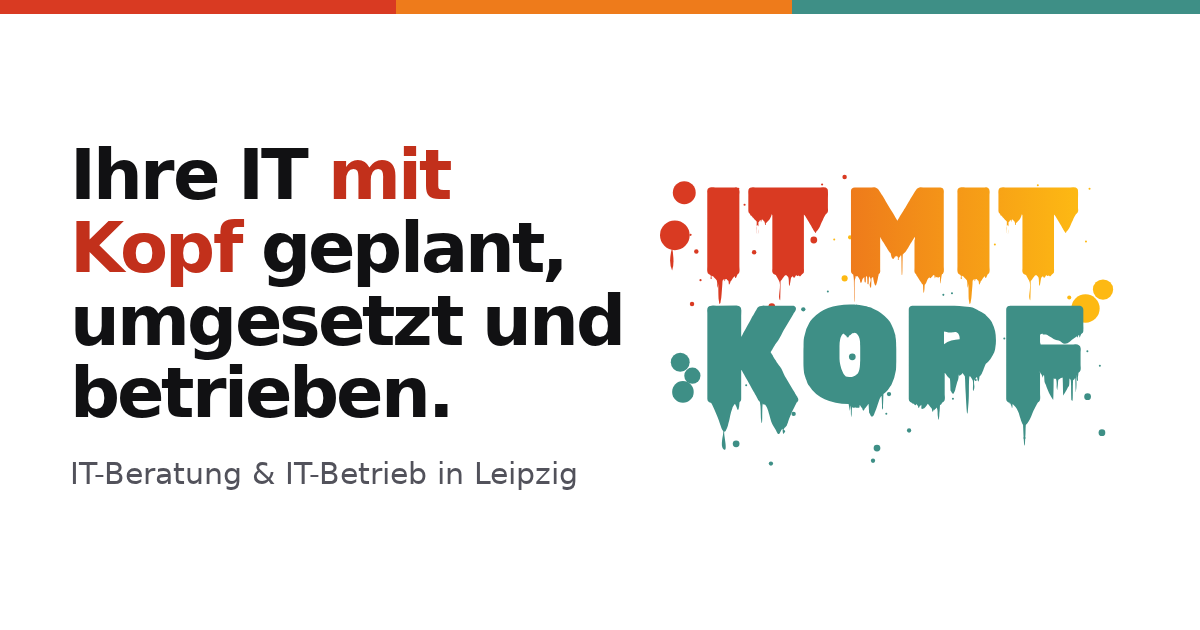
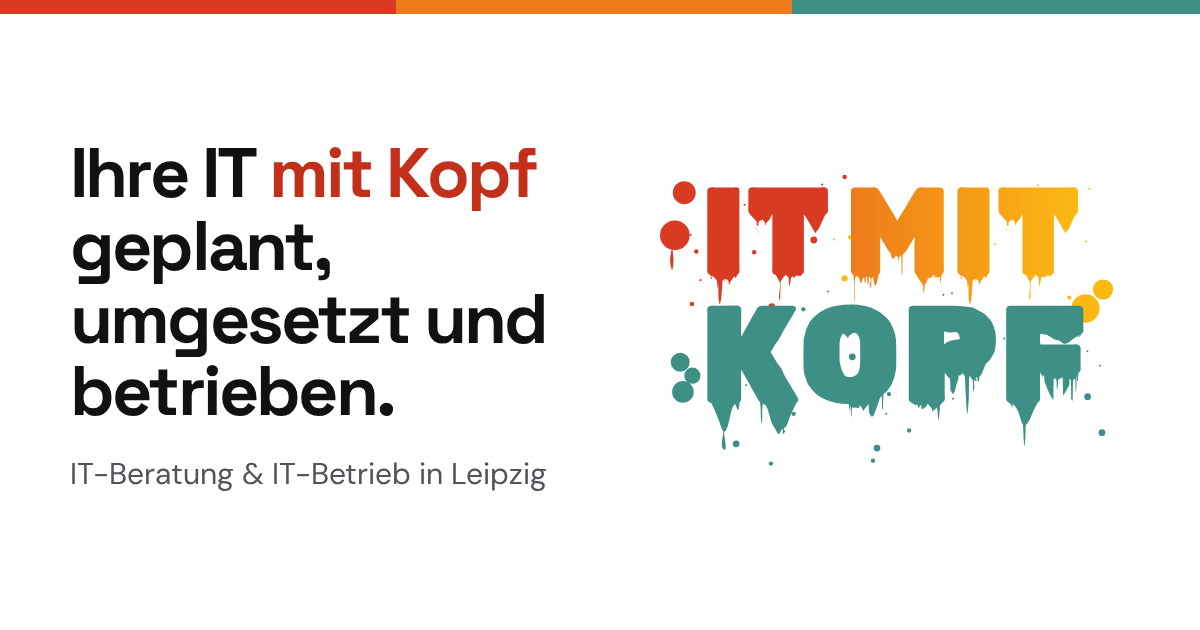
feat: LinkedIn footer link, a11y/HTML fixes, deploy drafts
- footer: LinkedIn link (+ sameAs in JSON-LD)
- html-validate clean: DOCTYPE case, non-breaking phone numbers, heading levels on /leistungen/
- og-image: fix font loading, keep 'mit Kopf' together
- deploy/: nginx default.conf (access_log off, 404, 301 for /Impressum.html + /Datenschutz.html) and compose draft with git-sync (60 min); not applied

Changed region(s): [[0.0617, 0.2111, 0.5242, 0.6635], [0.0617, 0.7238, 0.4933, 0.7841]]

diff --git a/public/index.html b/public/index.html
@@ -1,4 +1,4 @@
-<!doctype html>
+<!DOCTYPE html>
 <html lang="de">
 <head>
 <meta charset="utf-8">
@@ -26,7 +26,7 @@
 <link rel="preload" href="/assets/fonts/dm-sans.woff2" as="font" type="font/woff2" crossorigin>
 <link rel="stylesheet" href="/assets/css/style.css">
 <script src="/assets/js/theme.js"></script>
-<script type="application/ld+json">{"@context":"https://schema.org","@graph":[{"@type":"ProfessionalService","@id":"https://itmitkopf.de/#business","name":"IT mit Kopf","url":"https://itmitkopf.de/","description":"IT-Beratung, IT-Unterstützung im Tagesgeschäft sowie Umrüstung und Neuaufbau von IT-Infrastrukturen für kleine Firmen und Selbstständige in Leipzig.","slogan":"Ihre IT mit Kopf geplant, umgesetzt und betrieben.","logo":"https://itmitkopf.de/assets/img/logo-color.svg","image":"https://itmitkopf.de/assets/img/og-image.png","telephone":"+49 151 70119866","email":"info@itmitkopf.de","vatID":"DE365808911","inLanguage":"de","address":{"@type":"PostalAddress","streetAddress":"Salzmannstr. 15","postalCode":"04129","addressLocality":"Leipzig","addressCountry":"DE"},"areaServed":{"@type":"City","name":"Leipzig"},"founder":{"@type":"Person","name":"Benjamin Schützer","jobTitle":"IT-Berater"},"knowsAbout":["Virtualisierung","Proxmox VE","Proxmox Backup Server","NAS-Systeme","UniFi","TP-Link Omada","UniFi Protect","UniFi Access","Linux","Windows","Netzwerke","Überwachungstechnik","Smart Office","Smart Home","Home Assistant","KI-Agenten"],"makesOffer":[{"@type":"Offer","itemOffered":{"@type":"Service","name":"IT-Unterstützung im Tagesgeschäft","description":"Hilfe bei Störungen, Fragen und laufenden Aufgaben im Büroalltag, vor Ort in Leipzig oder remote auf Anfrage."}},{"@type":"Offer","itemOffered":{"@type":"Service","name":"IT-Beratung","description":"Eine fundierte Einschätzung Ihrer IT-Landschaft und ein klarer Plan, der zu Ihrem Betrieb passt."}},{"@type":"Offer","itemOffered":{"@type":"Service","name":"Umrüstung bestehender IT","description":"Vorhandene Infrastruktur wird Schritt für Schritt modernisiert, damit der laufende Betrieb möglichst wenig gestört wird."}},{"@type":"Offer","itemOffered":{"@type":"Service","name":"Neuaufbau von IT-Infrastruktur","description":"Server, Virtualisierung, Speicher, Netzwerk und Überwachung: von der Planung bis zum Betrieb aus einer Hand."}}]},{"@type":"WebSite","@id":"https://itmitkopf.de/#website","url":"https://itmitkopf.de/","name":"IT mit Kopf","inLanguage":"de","publisher":{"@id":"https://itmitkopf.de/#business"}}]}</script>
+<script type="application/ld+json">{"@context":"https://schema.org","@graph":[{"@type":"ProfessionalService","@id":"https://itmitkopf.de/#business","name":"IT mit Kopf","url":"https://itmitkopf.de/","description":"IT-Beratung, IT-Unterstützung im Tagesgeschäft sowie Umrüstung und Neuaufbau von IT-Infrastrukturen für kleine Firmen und Selbstständige in Leipzig.","slogan":"Ihre IT mit Kopf geplant, umgesetzt und betrieben.","logo":"https://itmitkopf.de/assets/img/logo-color.svg","image":"https://itmitkopf.de/assets/img/og-image.png","telephone":"+49 151 70119866","email":"info@itmitkopf.de","vatID":"DE365808911","inLanguage":"de","sameAs":["https://www.linkedin.com/company/itmitkopf/"],"address":{"@type":"PostalAddress","streetAddress":"Salzmannstr. 15","postalCode":"04129","addressLocality":"Leipzig","addressCountry":"DE"},"areaServed":{"@type":"City","name":"Leipzig"},"founder":{"@type":"Person","name":"Benjamin Schützer","jobTitle":"IT-Berater"},"knowsAbout":["Virtualisierung","Proxmox VE","Proxmox Backup Server","NAS-Systeme","UniFi","TP-Link Omada","UniFi Protect","UniFi Access","Linux","Windows","Netzwerke","Überwachungstechnik","Smart Office","Smart Home","Home Assistant","KI-Agenten"],"makesOffer":[{"@type":"Offer","itemOffered":{"@type":"Service","name":"IT-Unterstützung im Tagesgeschäft","description":"Hilfe bei Störungen, Fragen und laufenden Aufgaben im Büroalltag, vor Ort in Leipzig oder remote auf Anfrage."}},{"@type":"Offer","itemOffered":{"@type":"Service","name":"IT-Beratung","description":"Eine fundierte Einschätzung Ihrer IT-Landschaft und ein klarer Plan, der zu Ihrem Betrieb passt."}},{"@type":"Offer","itemOffered":{"@type":"Service","name":"Umrüstung bestehender IT","description":"Vorhandene Infrastruktur wird Schritt für Schritt modernisiert, damit der laufende Betrieb möglichst wenig gestört wird."}},{"@type":"Offer","itemOffered":{"@type":"Service","name":"Neuaufbau von IT-Infrastruktur","description":"Server, Virtualisierung, Speicher, Netzwerk und Überwachung: von der Planung bis zum Betrieb aus einer Hand."}}]},{"@type":"WebSite","@id":"https://itmitkopf.de/#website","url":"https://itmitkopf.de/","name":"IT mit Kopf","inLanguage":"de","publisher":{"@id":"https://itmitkopf.de/#business"}}]}</script>
 </head>
 <body>
 <a class="skip" href="#main">Zum Inhalt springen</a><header class="site-header"><div class="wrap"><a class="brand" href="/" aria-label="IT mit Kopf – Startseite"><img src="/assets/img/favicon.svg" width="31" height="34" alt="">IT mit Kopf</a><nav class="nav" aria-label="Hauptnavigation"><a href="/" aria-current="page">Start</a><a href="/leistungen/">Leistungen</a><a href="/ueber-mich/">Über mich</a><a href="/kontakt/">Kontakt</a></nav><button class="tg" id="theme-toggle" type="button" aria-pressed="false" aria-label="Zwischen hellem und dunklem Design wechseln" hidden><svg class="moon" width="20" height="20" viewBox="0 0 24 24" fill="none" stroke="currentColor" stroke-width="2" stroke-linecap="round" stroke-linejoin="round" aria-hidden="true"><path d="M21 12.8A9 9 0 1111.2 3a7 7 0 009.8 9.8z"/></svg><svg class="sun" width="20" height="20" viewBox="0 0 24 24" fill="none" stroke="currentColor" stroke-width="2" stroke-linecap="round" aria-hidden="true"><circle cx="12" cy="12" r="4"/><path d="M12 2v2M12 20v2M4.9 4.9l1.4 1.4M17.7 17.7l1.4 1.4M2 12h2M20 12h2M4.9 19.1l1.4-1.4M17.7 6.3l1.4-1.4"/></svg></button></div></header>
@@ -51,8 +51,8 @@
 <p><a href="/ueber-mich/"><strong>Mehr über mich →</strong></a></p></div><div class="facts"><div class="fact"><strong>20+</strong><span>Jahre Erfahrung in der IT</span></div><div class="fact"><strong>11+</strong><span>Jahre professionelle IT-Beratung</span></div><div class="fact"><strong>Leipzig</strong><span>vor Ort, remote auf Anfrage</span></div></div></div></section>
 <!-- Referenzen: vorbereitet, wird erst mit echten Inhalten sichtbar (hidden entfernen). Keine Inhalte erfinden. -->
 <section id="referenzen" hidden><div class="wrap"><h2>Referenzen</h2><p class="lead">Hier erscheinen künftig ausgewählte Projekte und Kundenstimmen.</p></div></section>
-<section class="band"><div class="wrap"><h2>Sprechen wir über Ihre IT.</h2><p>Schreiben Sie mir oder rufen Sie an. Ich melde mich mit einer ersten Einschätzung zu Ihrem Anliegen.</p><div class="cta"><a class="btn btn-p" href="mailto:info@itmitkopf.de">E-Mail schreiben</a><a class="btn btn-s" href="tel:+4915170119866">+49 151 70119866</a></div></div></section>
+<section class="band"><div class="wrap"><h2>Sprechen wir über Ihre IT.</h2><p>Schreiben Sie mir oder rufen Sie an. Ich melde mich mit einer ersten Einschätzung zu Ihrem Anliegen.</p><div class="cta"><a class="btn btn-p" href="mailto:info@itmitkopf.de">E-Mail schreiben</a><a class="btn btn-s" href="tel:+4915170119866">+49&nbsp;151&nbsp;70119866</a></div></div></section>
 </main>
-<footer class="site-footer"><div class="wrap"><div><strong>IT mit Kopf</strong><br>Benjamin Schützer<br>Salzmannstr. 15, 04129 Leipzig<br><a href="mailto:info@itmitkopf.de">info@itmitkopf.de</a><br><a href="tel:+4915170119866">+49 151 70119866</a></div><div><ul><li><a href="/impressum/">Impressum</a></li><li><a href="/datenschutz/">Datenschutz</a></li></ul></div><div>© 2026 IT mit Kopf<br>Leipzig · remote auf Anfrage</div></div></footer>
+<footer class="site-footer"><div class="wrap"><div><strong>IT mit Kopf</strong><br>Benjamin Schützer<br>Salzmannstr. 15, 04129 Leipzig<br><a href="mailto:info@itmitkopf.de">info@itmitkopf.de</a><br><a href="tel:+4915170119866">+49&nbsp;151&nbsp;70119866</a></div><div><ul><li><a href="/impressum/">Impressum</a></li><li><a href="/datenschutz/">Datenschutz</a></li><li><a href="https://www.linkedin.com/company/itmitkopf/" rel="noopener" target="_blank">LinkedIn<span class="sr"> (öffnet in neuem Tab)</span></a></li></ul></div><div>© 2026 IT mit Kopf<br>Leipzig · remote auf Anfrage</div></div></footer>
 </body>
 </html>

diff --git a/public/leistungen/index.html b/public/leistungen/index.html
@@ -1,4 +1,4 @@
-<!doctype html>
+<!DOCTYPE html>
 <html lang="de">
 <head>
 <meta charset="utf-8">
@@ -33,13 +33,13 @@
 <main id="main">
 <section class="page-head"><div class="wrap"><p class="eyebrow">Leistungen</p><h1>Was ich für Sie tue</h1>
 <p class="lead">Vier Schwerpunkte, die ineinandergreifen: vom Alltagssupport bis zur neuen Infrastruktur.</p></div></section>
-<section style="padding-top:1rem"><div class="wrap"><div class="list"><article class="item" id="support"><h3>IT-Unterstützung im Tagesgeschäft</h3><div><p>Hilfe bei Störungen, Fragen und laufenden Aufgaben im Büroalltag, vor Ort in Leipzig oder remote auf Anfrage.</p><ul class="bul"><li>Analyse und Behebung von Störungen</li><li>Einrichtung und Pflege von Arbeitsplätzen, Druckern und Scannern</li><li>Ansprechpartner für Fragen aus dem Alltag</li></ul></div></article><article class="item" id="beratung"><h3>IT-Beratung</h3><div><p>Eine fundierte Einschätzung Ihrer IT-Landschaft und ein klarer Plan, der zu Ihrem Betrieb passt.</p><ul class="bul"><li>Bestandsaufnahme der vorhandenen IT</li><li>Bewertung und Empfehlung mit Blick auf Betrieb und Budget</li><li>Planung von Änderungen und Neuanschaffungen</li></ul></div></article><article class="item" id="umruestung"><h3>Umrüstung bestehender IT</h3><div><p>Vorhandene Infrastruktur wird Schritt für Schritt modernisiert, damit der laufende Betrieb möglichst wenig gestört wird.</p><ul class="bul"><li>Migration auf neue Systeme und Plattformen</li><li>Modernisierung von Server, Speicher und Netzwerk</li><li>Schrittweise Umstellung mit abgestimmtem Ablauf</li></ul></div></article><article class="item" id="neuaufbau"><h3>Neuaufbau von IT-Infrastruktur</h3><div><p>Server, Virtualisierung, Speicher, Netzwerk und Überwachung: von der Planung bis zum Betrieb aus einer Hand.</p><ul class="bul"><li>Server und Virtualisierung</li><li>Netzwerk, WLAN und Überwachungstechnik</li><li>Datensicherung und Speicher</li></ul></div></article></div></div></section>
+<section style="padding-top:1rem"><div class="wrap"><div class="list"><article class="item" id="support"><h2>IT-Unterstützung im Tagesgeschäft</h2><div><p>Hilfe bei Störungen, Fragen und laufenden Aufgaben im Büroalltag, vor Ort in Leipzig oder remote auf Anfrage.</p><ul class="bul"><li>Analyse und Behebung von Störungen</li><li>Einrichtung und Pflege von Arbeitsplätzen, Druckern und Scannern</li><li>Ansprechpartner für Fragen aus dem Alltag</li></ul></div></article><article class="item" id="beratung"><h2>IT-Beratung</h2><div><p>Eine fundierte Einschätzung Ihrer IT-Landschaft und ein klarer Plan, der zu Ihrem Betrieb passt.</p><ul class="bul"><li>Bestandsaufnahme der vorhandenen IT</li><li>Bewertung und Empfehlung mit Blick auf Betrieb und Budget</li><li>Planung von Änderungen und Neuanschaffungen</li></ul></div></article><article class="item" id="umruestung"><h2>Umrüstung bestehender IT</h2><div><p>Vorhandene Infrastruktur wird Schritt für Schritt modernisiert, damit der laufende Betrieb möglichst wenig gestört wird.</p><ul class="bul"><li>Migration auf neue Systeme und Plattformen</li><li>Modernisierung von Server, Speicher und Netzwerk</li><li>Schrittweise Umstellung mit abgestimmtem Ablauf</li></ul></div></article><article class="item" id="neuaufbau"><h2>Neuaufbau von IT-Infrastruktur</h2><div><p>Server, Virtualisierung, Speicher, Netzwerk und Überwachung: von der Planung bis zum Betrieb aus einer Hand.</p><ul class="bul"><li>Server und Virtualisierung</li><li>Netzwerk, WLAN und Überwachungstechnik</li><li>Datensicherung und Speicher</li></ul></div></article></div></div></section>
 <section class="alt"><div class="wrap split"><div><h2>Technologien und Themenfelder</h2>
 <p class="muted">Hier bin ich zu Hause. Ihr System ist nicht dabei? Fragen Sie gern an, vieles lässt sich klären.</p>
 <img class="illu" src="/assets/img/illu-infrastruktur.svg" width="520" height="340" alt="Schematische Darstellung: drei Server, die über farbige Leitungen mit einem Netzwerkknoten verbunden sind" loading="lazy"></div>
 <div class="groups" style="grid-template-columns:1fr"><div class="group"><h3>Virtualisierung &amp; Server</h3><ul><li>Proxmox VE</li><li>Linux-Systeme</li><li>Windows-Systeme</li></ul></div><div class="group"><h3>Speicher &amp; Datensicherung</h3><ul><li>Proxmox Backup Server</li><li>NAS-Systeme verschiedener Hersteller</li></ul></div><div class="group"><h3>Netzwerk &amp; Überwachung</h3><ul><li>UniFi Netzwerke</li><li>TP-Link Omada Netzwerke</li><li>UniFi Protect</li><li>UniFi Access</li></ul></div><div class="group"><h3>Arbeitsplatz</h3><ul><li>Clients und Endgeräte</li><li>Drucker</li><li>Scanner</li></ul></div><div class="group"><h3>Smart Office &amp; Automatisierung</h3><ul><li>Smarte Office-Lösungen</li><li>Home Assistant</li><li>KI-Agenten</li></ul></div></div></div></section>
-<section class="band"><div class="wrap"><h2>Welche IT braucht Ihr Betrieb?</h2><p>Schreiben Sie mir oder rufen Sie an. Ich melde mich mit einer ersten Einschätzung zu Ihrem Anliegen.</p><div class="cta"><a class="btn btn-p" href="mailto:info@itmitkopf.de">E-Mail schreiben</a><a class="btn btn-s" href="tel:+4915170119866">+49 151 70119866</a></div></div></section>
+<section class="band"><div class="wrap"><h2>Welche IT braucht Ihr Betrieb?</h2><p>Schreiben Sie mir oder rufen Sie an. Ich melde mich mit einer ersten Einschätzung zu Ihrem Anliegen.</p><div class="cta"><a class="btn btn-p" href="mailto:info@itmitkopf.de">E-Mail schreiben</a><a class="btn btn-s" href="tel:+4915170119866">+49&nbsp;151&nbsp;70119866</a></div></div></section>
 </main>
-<footer class="site-footer"><div class="wrap"><div><strong>IT mit Kopf</strong><br>Benjamin Schützer<br>Salzmannstr. 15, 04129 Leipzig<br><a href="mailto:info@itmitkopf.de">info@itmitkopf.de</a><br><a href="tel:+4915170119866">+49 151 70119866</a></div><div><ul><li><a href="/impressum/">Impressum</a></li><li><a href="/datenschutz/">Datenschutz</a></li></ul></div><div>© 2026 IT mit Kopf<br>Leipzig · remote auf Anfrage</div></div></footer>
+<footer class="site-footer"><div class="wrap"><div><strong>IT mit Kopf</strong><br>Benjamin Schützer<br>Salzmannstr. 15, 04129 Leipzig<br><a href="mailto:info@itmitkopf.de">info@itmitkopf.de</a><br><a href="tel:+4915170119866">+49&nbsp;151&nbsp;70119866</a></div><div><ul><li><a href="/impressum/">Impressum</a></li><li><a href="/datenschutz/">Datenschutz</a></li><li><a href="https://www.linkedin.com/company/itmitkopf/" rel="noopener" target="_blank">LinkedIn<span class="sr"> (öffnet in neuem Tab)</span></a></li></ul></div><div>© 2026 IT mit Kopf<br>Leipzig · remote auf Anfrage</div></div></footer>
 </body>
 </html>

diff --git a/public/ueber-mich/index.html b/public/ueber-mich/index.html
@@ -1,4 +1,4 @@
-<!doctype html>
+<!DOCTYPE html>
 <html lang="de">
 <head>
 <meta charset="utf-8">
@@ -38,8 +38,8 @@
 <p>IT ist der treibende Motor eines Unternehmens. Darum plane ich sie so, dass sie Ihren Betrieb trägt und voranbringt, und begleite sie von der ersten Idee bis zum laufenden Betrieb.</p>
 <p>Ich bin in Leipzig zu Hause und arbeite vor Ort oder remote auf Anfrage.</p></div><div class="facts"><div class="fact"><strong>20+</strong><span>Jahre Erfahrung in der IT</span></div><div class="fact"><strong>11+</strong><span>Jahre professionelle IT-Beratung</span></div><div class="fact"><strong>Leipzig</strong><span>vor Ort, remote auf Anfrage</span></div></div></div></section>
 <section class="alt"><div class="wrap"><h2>Technologien</h2><ul class="topics"><li>Virtualisierung</li><li>Server</li><li>Clients</li><li>Netzwerke</li><li>Überwachungstechnik</li><li>Smart Home und Smart Office</li><li>KI-Agenten</li></ul></div></section>
-<section class="band"><div class="wrap"><h2>Lernen wir uns kennen.</h2><p>Schreiben Sie mir oder rufen Sie an. Ich melde mich mit einer ersten Einschätzung zu Ihrem Anliegen.</p><div class="cta"><a class="btn btn-p" href="mailto:info@itmitkopf.de">E-Mail schreiben</a><a class="btn btn-s" href="tel:+4915170119866">+49 151 70119866</a></div></div></section>
+<section class="band"><div class="wrap"><h2>Lernen wir uns kennen.</h2><p>Schreiben Sie mir oder rufen Sie an. Ich melde mich mit einer ersten Einschätzung zu Ihrem Anliegen.</p><div class="cta"><a class="btn btn-p" href="mailto:info@itmitkopf.de">E-Mail schreiben</a><a class="btn btn-s" href="tel:+4915170119866">+49&nbsp;151&nbsp;70119866</a></div></div></section>
 </main>
-<footer class="site-footer"><div class="wrap"><div><strong>IT mit Kopf</strong><br>Benjamin Schützer<br>Salzmannstr. 15, 04129 Leipzig<br><a href="mailto:info@itmitkopf.de">info@itmitkopf.de</a><br><a href="tel:+4915170119866">+49 151 70119866</a></div><div><ul><li><a href="/impressum/">Impressum</a></li><li><a href="/datenschutz/">Datenschutz</a></li></ul></div><div>© 2026 IT mit Kopf<br>Leipzig · remote auf Anfrage</div></div></footer>
+<footer class="site-footer"><div class="wrap"><div><strong>IT mit Kopf</strong><br>Benjamin Schützer<br>Salzmannstr. 15, 04129 Leipzig<br><a href="mailto:info@itmitkopf.de">info@itmitkopf.de</a><br><a href="tel:+4915170119866">+49&nbsp;151&nbsp;70119866</a></div><div><ul><li><a href="/impressum/">Impressum</a></li><li><a href="/datenschutz/">Datenschutz</a></li><li><a href="https://www.linkedin.com/company/itmitkopf/" rel="noopener" target="_blank">LinkedIn<span class="sr"> (öffnet in neuem Tab)</span></a></li></ul></div><div>© 2026 IT mit Kopf<br>Leipzig · remote auf Anfrage</div></div></footer>
 </body>
 </html>

diff --git a/public/datenschutz/index.html b/public/datenschutz/index.html
@@ -1,4 +1,4 @@
-<!doctype html>
+<!DOCTYPE html>
 <html lang="de">
 <head>
 <meta charset="utf-8">
@@ -35,7 +35,7 @@
 <section style="padding-top:0"><div class="wrap prose">
 <h2>1. Verantwortlicher</h2>
 <p>Verantwortlich für die Datenverarbeitung auf dieser Website ist:</p>
-<address>Benjamin Schützer<br>Salzmannstr. 15<br>04129 Leipzig<br>E-Mail: <a href="mailto:info@itmitkopf.de">info@itmitkopf.de</a><br>Telefon: <a href="tel:+4915170119866">+49 151 70119866</a></address>
+<address>Benjamin Schützer<br>Salzmannstr. 15<br>04129 Leipzig<br>E-Mail: <a href="mailto:info@itmitkopf.de">info@itmitkopf.de</a><br>Telefon: <a href="tel:+4915170119866">+49&nbsp;151&nbsp;70119866</a></address>
 <h2>2. Das Wichtigste in Kürze</h2>
 <p>Diese Website verarbeitet personenbezogene Daten nur, soweit dies technisch erforderlich ist oder Sie mir Daten von sich aus mitteilen. Ich setze <strong>keine Cookies</strong>, <strong>keine Analyse- oder Tracking-Werkzeuge</strong> und <strong>keine Werbung</strong> ein. Schriften, Skripte und Bilder werden ausschließlich von diesem Server geladen; es gibt keine eingebundenen Inhalte Dritter (z. B. Schriftdienste, Karten, Videos oder Social-Media-Plugins).</p>
 <h2>3. Hosting und Zugriffsdaten</h2>
@@ -57,6 +57,6 @@
 <p>Stand: Oktober 2026. Ich passe diese Erklärung an, wenn sich die Website oder die rechtlichen Vorgaben ändern.</p>
 </div></section>
 </main>
-<footer class="site-footer"><div class="wrap"><div><strong>IT mit Kopf</strong><br>Benjamin Schützer<br>Salzmannstr. 15, 04129 Leipzig<br><a href="mailto:info@itmitkopf.de">info@itmitkopf.de</a><br><a href="tel:+4915170119866">+49 151 70119866</a></div><div><ul><li><a href="/impressum/">Impressum</a></li><li><a href="/datenschutz/">Datenschutz</a></li></ul></div><div>© 2026 IT mit Kopf<br>Leipzig · remote auf Anfrage</div></div></footer>
+<footer class="site-footer"><div class="wrap"><div><strong>IT mit Kopf</strong><br>Benjamin Schützer<br>Salzmannstr. 15, 04129 Leipzig<br><a href="mailto:info@itmitkopf.de">info@itmitkopf.de</a><br><a href="tel:+4915170119866">+49&nbsp;151&nbsp;70119866</a></div><div><ul><li><a href="/impressum/">Impressum</a></li><li><a href="/datenschutz/">Datenschutz</a></li><li><a href="https://www.linkedin.com/company/itmitkopf/" rel="noopener" target="_blank">LinkedIn<span class="sr"> (öffnet in neuem Tab)</span></a></li></ul></div><div>© 2026 IT mit Kopf<br>Leipzig · remote auf Anfrage</div></div></footer>
 </body>
 </html>

diff --git a/public/kontakt/index.html b/public/kontakt/index.html
@@ -1,4 +1,4 @@
-<!doctype html>
+<!DOCTYPE html>
 <html lang="de">
 <head>
 <meta charset="utf-8">
@@ -35,11 +35,11 @@
 <p class="lead">Beschreiben Sie kurz Ihr Anliegen. Ich melde mich mit einer ersten Einschätzung.</p></div></section>
 <section style="padding-top:1rem"><div class="wrap"><div class="contact-grid">
 <div class="contact-card"><p class="eyebrow">E-Mail</p><a class="big" href="mailto:info@itmitkopf.de">info@itmitkopf.de</a></div>
-<div class="contact-card"><p class="eyebrow">Telefon</p><a class="big" href="tel:+4915170119866">+49 151 70119866</a></div>
+<div class="contact-card"><p class="eyebrow">Telefon</p><a class="big" href="tel:+4915170119866">+49&nbsp;151&nbsp;70119866</a></div>
 <div class="contact-card"><p class="eyebrow">Einsatzgebiet</p><p style="margin:0"><strong>Leipzig</strong>, remote auf Anfrage</p></div>
 <div class="contact-card"><p class="eyebrow">Anbieterkennzeichnung</p><p style="margin:0">Alle Angaben finden Sie im <a href="/impressum/">Impressum</a>.</p></div>
 </div></div></section>
 </main>
-<footer class="site-footer"><div class="wrap"><div><strong>IT mit Kopf</strong><br>Benjamin Schützer<br>Salzmannstr. 15, 04129 Leipzig<br><a href="mailto:info@itmitkopf.de">info@itmitkopf.de</a><br><a href="tel:+4915170119866">+49 151 70119866</a></div><div><ul><li><a href="/impressum/">Impressum</a></li><li><a href="/datenschutz/">Datenschutz</a></li></ul></div><div>© 2026 IT mit Kopf<br>Leipzig · remote auf Anfrage</div></div></footer>
+<footer class="site-footer"><div class="wrap"><div><strong>IT mit Kopf</strong><br>Benjamin Schützer<br>Salzmannstr. 15, 04129 Leipzig<br><a href="mailto:info@itmitkopf.de">info@itmitkopf.de</a><br><a href="tel:+4915170119866">+49&nbsp;151&nbsp;70119866</a></div><div><ul><li><a href="/impressum/">Impressum</a></li><li><a href="/datenschutz/">Datenschutz</a></li><li><a href="https://www.linkedin.com/company/itmitkopf/" rel="noopener" target="_blank">LinkedIn<span class="sr"> (öffnet in neuem Tab)</span></a></li></ul></div><div>© 2026 IT mit Kopf<br>Leipzig · remote auf Anfrage</div></div></footer>
 </body>
 </html>

diff --git a/public/impressum/index.html b/public/impressum/index.html
@@ -1,4 +1,4 @@
-<!doctype html>
+<!DOCTYPE html>
 <html lang="de">
 <head>
 <meta charset="utf-8">
@@ -36,7 +36,7 @@
 <h2>Angaben gemäß § 5 DDG</h2>
 <address>Benjamin Schützer<br>Salzmannstr. 15<br>04129 Leipzig<br>Deutschland</address>
 <h2>Kontakt</h2>
-<p>Telefon: <a href="tel:+4915170119866">+49 151 70119866</a><br>E-Mail: <a href="mailto:info@itmitkopf.de">info@itmitkopf.de</a></p>
+<p>Telefon: <a href="tel:+4915170119866">+49&nbsp;151&nbsp;70119866</a><br>E-Mail: <a href="mailto:info@itmitkopf.de">info@itmitkopf.de</a></p>
 <h2>Umsatzsteuer-ID</h2>
 <p>Umsatzsteuer-Identifikationsnummer gemäß § 27a Umsatzsteuergesetz: DE365808911</p>
 <h2>Inhaltlich verantwortlich gemäß § 18 Abs. 2 MStV</h2>
@@ -45,6 +45,6 @@
 <p>Ich bin nicht bereit und nicht verpflichtet, an Streitbeilegungsverfahren vor einer Verbraucherschlichtungsstelle teilzunehmen (§ 36 VSBG).</p>
 </div></section>
 </main>
-<footer class="site-footer"><div class="wrap"><div><strong>IT mit Kopf</strong><br>Benjamin Schützer<br>Salzmannstr. 15, 04129 Leipzig<br><a href="mailto:info@itmitkopf.de">info@itmitkopf.de</a><br><a href="tel:+4915170119866">+49 151 70119866</a></div><div><ul><li><a href="/impressum/">Impressum</a></li><li><a href="/datenschutz/">Datenschutz</a></li></ul></div><div>© 2026 IT mit Kopf<br>Leipzig · remote auf Anfrage</div></div></footer>
+<footer class="site-footer"><div class="wrap"><div><strong>IT mit Kopf</strong><br>Benjamin Schützer<br>Salzmannstr. 15, 04129 Leipzig<br><a href="mailto:info@itmitkopf.de">info@itmitkopf.de</a><br><a href="tel:+4915170119866">+49&nbsp;151&nbsp;70119866</a></div><div><ul><li><a href="/impressum/">Impressum</a></li><li><a href="/datenschutz/">Datenschutz</a></li><li><a href="https://www.linkedin.com/company/itmitkopf/" rel="noopener" target="_blank">LinkedIn<span class="sr"> (öffnet in neuem Tab)</span></a></li></ul></div><div>© 2026 IT mit Kopf<br>Leipzig · remote auf Anfrage</div></div></footer>
 </body>
 </html>

diff --git a/public/404.html b/public/404.html
@@ -1,4 +1,4 @@
-<!doctype html>
+<!DOCTYPE html>
 <html lang="de">
 <head>
 <meta charset="utf-8">
@@ -35,6 +35,6 @@
 <p class="lead">Der Link ist veraltet oder die Adresse falsch geschrieben.</p>
 <div class="cta"><a class="btn btn-p" href="/">Zur Startseite</a><a class="btn btn-s" href="/kontakt/">Kontakt</a></div></div></section>
 </main>
-<footer class="site-footer"><div class="wrap"><div><strong>IT mit Kopf</strong><br>Benjamin Schützer<br>Salzmannstr. 15, 04129 Leipzig<br><a href="mailto:info@itmitkopf.de">info@itmitkopf.de</a><br><a href="tel:+4915170119866">+49 151 70119866</a></div><div><ul><li><a href="/impressum/">Impressum</a></li><li><a href="/datenschutz/">Datenschutz</a></li></ul></div><div>© 2026 IT mit Kopf<br>Leipzig · remote auf Anfrage</div></div></footer>
+<footer class="site-footer"><div class="wrap"><div><strong>IT mit Kopf</strong><br>Benjamin Schützer<br>Salzmannstr. 15, 04129 Leipzig<br><a href="mailto:info@itmitkopf.de">info@itmitkopf.de</a><br><a href="tel:+4915170119866">+49&nbsp;151&nbsp;70119866</a></div><div><ul><li><a href="/impressum/">Impressum</a></li><li><a href="/datenschutz/">Datenschutz</a></li><li><a href="https://www.linkedin.com/company/itmitkopf/" rel="noopener" target="_blank">LinkedIn<span class="sr"> (öffnet in neuem Tab)</span></a></li></ul></div><div>© 2026 IT mit Kopf<br>Leipzig · remote auf Anfrage</div></div></footer>
 </body>
 </html>

diff --git a/public/assets/css/style.css b/public/assets/css/style.css
@@ -38,6 +38,7 @@ p{margin:0 0 1rem}
 :focus-visible{outline:3px solid var(--acc);outline-offset:3px;border-radius:2px}
 .wrap{max-width:1120px;margin:0 auto;padding:0 1.25rem}
 .skip{position:absolute;left:-999px;top:0}
+.sr{position:absolute;width:1px;height:1px;margin:-1px;padding:0;overflow:hidden;clip:rect(0,0,0,0);white-space:nowrap;border:0}
 .skip:focus{left:1rem;top:1rem;z-index:20;background:var(--acc);color:var(--onacc);padding:.6rem 1rem;font-weight:600}
 
 /* ---------- header ---------- */
@@ -98,6 +99,7 @@ section{padding:4rem 0}
 .item:nth-child(2){--stripe:var(--s2)}
 .item:nth-child(3){--stripe:var(--s3)}
 .item:nth-child(4){--stripe:var(--s4)}
+.item h2,.item h3{font-size:1.3rem;letter-spacing:-.02em;margin:0}
 .item p{margin:0;color:var(--muted)}
 .item h3 a{text-decoration:none}
 .item h3 a::after{content:"";position:absolute;inset:0}

diff --git a/deploy/README.md b/deploy/README.md
@@ -1,0 +1,8 @@
+# deploy/
+
+Entwürfe für den Betrieb auf vps01. Nicht Teil der ausgelieferten Website (nur `public/` wird ausgeliefert).
+
+- `nginx/default.conf` – Nginx-Konfiguration (kein Access-Log, 404-Seite, Redirects der alten URLs, Caching, gzip)
+- `compose.yaml` – Stack mit `git-sync`-Sidecar (zieht `main` alle 60 Minuten)
+
+Status: Entwurf, noch nicht angewendet. Änderungen am Produktivsystem erfolgen erst nach ausdrücklicher Freigabe.
